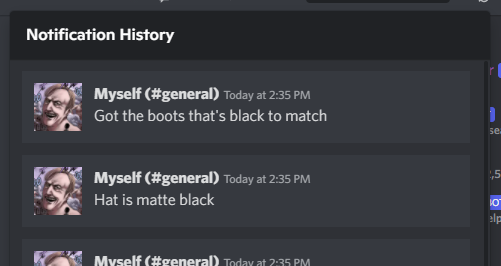
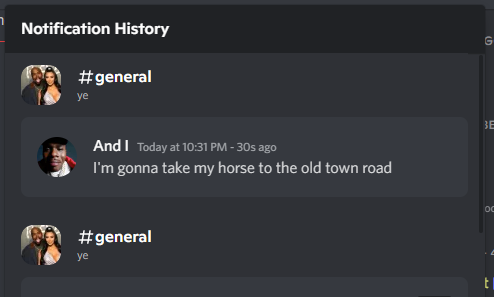
Use RPC instead of OSNotification

diff --git a/release/NotificationHistory.plugin.js b/release/NotificationHistory.plugin.js
@@ -1,6 +1,6 @@
 /**
  * @name NotificationHistory
- * @version 1.0.1
+ * @version 1.1.0
  * @author BrandonXLF
  * @description View a list of all the notifications you've received since Discord was opened.
  * @website https://github.com/BrandonXLF/BetterDiscordPlugins/tree/main/src/NotificationHistory
@@ -8,7 +8,7 @@
  * @authorLink https://github.com/BrandonXLF/
  */
 module.exports = (() => {
-	const config = {"info":{"version":"1.0.1","description":"View a list of all the notifications you've received since Discord was opened.","name":"NotificationHistory","github":"https://github.com/BrandonXLF/BetterDiscordPlugins/tree/main/src/NotificationHistory","github_raw":"https://raw.githubusercontent.com/BrandonXLF/BetterDiscordPlugins/main/release/NotificationHistory.plugin.js","authorLink":"https://github.com/BrandonXLF/","authors":[{"name":"BrandonXLF"}]},"main":"index.js"};
+	const config = {"info":{"version":"1.1.0","description":"View a list of all the notifications you've received since Discord was opened.","name":"NotificationHistory","github":"https://github.com/BrandonXLF/BetterDiscordPlugins/tree/main/src/NotificationHistory","github_raw":"https://raw.githubusercontent.com/BrandonXLF/BetterDiscordPlugins/main/release/NotificationHistory.plugin.js","authorLink":"https://github.com/BrandonXLF/","authors":[{"name":"BrandonXLF"}]},"main":"index.js"};
 
 	return !global.ZeresPluginLibrary ? class {
 		constructor() {
@@ -66,23 +66,26 @@ module.exports = (() => {
     DOMTools
   } = Library;
   const {
-    React
+    React,
+    MessageStore,
+    NavigationUtils
   } = DiscordModules;
-  const OSNotification = WebpackModules.getByProps('showNotification', 'hasPermission');
-  const moment = WebpackModules.getByProps('duration', 'now');
+  const RPC = WebpackModules.getByProps('handleNotificationCreate');
   const HeaderBar = WebpackModules.find(m => m.default?.displayName == 'HeaderBar');
   const {
     ScrollerThin
   } = WebpackModules.getByProps('ScrollerThin');
-  const MessageTimestamp = WebpackModules.findByDisplayName('MessageTimestamp');
   const IconElement = WebpackModules.getByProps('Icon').Icon;
   const Popout = WebpackModules.findByDisplayName('Popout');
+  const RecentsChannelHeader = WebpackModules.getByDisplayName('RecentsChannelHeader');
+  const JumpToMessageButton = WebpackModules.getByDisplayName('JumpToMessageButton');
+  const ChannelMessage = WebpackModules.find(m => m?.default?.type.toString().includes('subscribeToComponentDispatch')).default.type;
+  const ChannelStore = WebpackModules.getByProps('getChannel', 'getDMFromUserId');
   const sizeClasses = WebpackModules.getByProps('size16');
   const titleClasses = WebpackModules.getByProps('base', 'uppercase');
-  const messageContentClasses = WebpackModules.getByProps('markup', 'roleMention');
   const iconClasses = WebpackModules.getByProps('container', 'children', 'toolbar', 'iconWrapper');
   const inboxClasses = WebpackModules.getByProps('messagesPopout', 'messagesPopoutWrap', 'emptyPlaceholder');
-  const messageClasses = WebpackModules.getByProps('cozy', 'timestampTooltip', 'commandIcon');
+  const recentMentionsClasses = WebpackModules.getByProps('message', 'recentMentionsPopout');
 
   class NotificationStore extends EventTarget {
     #notifications = [];
@@ -112,27 +115,27 @@ module.exports = (() => {
     }
 
     render() {
-      let date = moment(this.props.notification.timestamp);
+      let msg = MessageStore.getMessage(this.props.notification.message.channel_id, this.props.notification.message.id);
+      let channel = ChannelStore.getChannel(this.props.notification.channelId);
+
+      let goToMessage = () => NavigationUtils.transitionToGuild(channel.getGuildId(), channel.id, msg.id);
+
+      if (!msg || !channel) return null;
       return /*#__PURE__*/React.createElement("div", {
-        className: `${messageContentClasses.markup} notification-history-record`,
-        onClick: this.onClick.bind(this)
-      }, /*#__PURE__*/React.createElement("div", {
-        className: "notification-history-icon"
-      }, /*#__PURE__*/React.createElement("img", {
-        src: this.props.notification.icon
-      })), /*#__PURE__*/React.createElement("div", {
-        className: messageClasses.cozy
-      }, /*#__PURE__*/React.createElement("div", null, /*#__PURE__*/React.createElement("span", {
-        style: {
-          fontWeight: 'bold'
-        }
-      }, this.props.notification.title), /*#__PURE__*/React.createElement(MessageTimestamp, {
-        timestamp: date
-      })), /*#__PURE__*/React.createElement("div", {
-        style: {
-          lineBreak: 'anywhere'
-        }
-      }, this.props.notification.body)));
+        className: recentMentionsClasses.container
+      }, /*#__PURE__*/React.createElement(RecentsChannelHeader, {
+        channel: channel,
+        gotoChannel: goToMessage
+      }), /*#__PURE__*/React.createElement("div", {
+        className: recentMentionsClasses.messageContainer
+      }, /*#__PURE__*/React.createElement(JumpToMessageButton, {
+        className: recentMentionsClasses.jumpButton,
+        onJump: goToMessage
+      }), /*#__PURE__*/React.createElement(ChannelMessage, {
+        message: msg,
+        channel: channel,
+        className: recentMentionsClasses.message
+      })));
     }
 
   }
@@ -170,7 +173,7 @@ module.exports = (() => {
         className: "notification-history-list"
       }, this.props.notificationStore.length ? this.props.notificationStore.getAll().map(notification => {
         return /*#__PURE__*/React.createElement(NotificationElement, {
-          key: notification.tag,
+          key: notification.message.id,
           notification: notification,
           closeModal: this.props.onClose
         });
@@ -258,11 +261,12 @@ module.exports = (() => {
     notificationStore = new NotificationStore();
 
     onStart() {
-      Patcher.after(OSNotification, 'showNotification', (_, __, notification) => {
+      Patcher.after(RPC, 'handleNotificationCreate', (_, [notification]) => {
         if (!notification) return;
         this.notificationStore.add(notification);
       });
       Patcher.before(HeaderBar, 'default', (_, [props]) => {
+        if (!props) return;
         let toolbarChildren = props.toolbar.props.children;
         let btnIndex = toolbarChildren.findIndex(x => x?.type?.displayName == 'RecentsButton');
         toolbarChildren.splice(btnIndex, 0, /*#__PURE__*/React.createElement(NotificationHistoryIconElement, {

diff --git a/src/NotificationHistory/index.jsx b/src/NotificationHistory/index.jsx
@@ -1,21 +1,20 @@
 module.exports = (Plugin, Library) => {
 	const { Patcher, DiscordModules, WebpackModules, DOMTools } = Library;
-	const { React } = DiscordModules;
-	const OSNotification = WebpackModules.getByProps('showNotification', 'hasPermission');
-	const moment = WebpackModules.getByProps('duration', 'now');
-
+	const { React, MessageStore, NavigationUtils } = DiscordModules;
+	const RPC = WebpackModules.getByProps('handleNotificationCreate');
 	const HeaderBar = WebpackModules.find(m => m.default?.displayName == 'HeaderBar');
 	const { ScrollerThin } = WebpackModules.getByProps('ScrollerThin');
-	const MessageTimestamp = WebpackModules.findByDisplayName('MessageTimestamp');
 	const IconElement = WebpackModules.getByProps('Icon').Icon;
 	const Popout = WebpackModules.findByDisplayName('Popout');
-
+	const RecentsChannelHeader = WebpackModules.getByDisplayName('RecentsChannelHeader');
+	const JumpToMessageButton = WebpackModules.getByDisplayName('JumpToMessageButton');
+	const ChannelMessage = WebpackModules.find(m => m?.default?.type.toString().includes('subscribeToComponentDispatch')).default.type;
+	const ChannelStore = WebpackModules.getByProps('getChannel', 'getDMFromUserId');
 	const sizeClasses = WebpackModules.getByProps('size16');
 	const titleClasses = WebpackModules.getByProps('base', 'uppercase');
-	const messageContentClasses = WebpackModules.getByProps('markup', 'roleMention');
 	const iconClasses = WebpackModules.getByProps('container', 'children', 'toolbar', 'iconWrapper');
 	const inboxClasses = WebpackModules.getByProps('messagesPopout', 'messagesPopoutWrap', 'emptyPlaceholder');
-	const messageClasses = WebpackModules.getByProps('cozy', 'timestampTooltip', 'commandIcon');
+	const recentMentionsClasses = WebpackModules.getByProps('message', 'recentMentionsPopout');
 	
 	class NotificationStore extends EventTarget {
 		#notifications = [];
@@ -44,18 +43,31 @@ module.exports = (Plugin, Library) => {
 		}
 		
 		render() {
-			let date = moment(this.props.notification.timestamp);
+			let msg = MessageStore.getMessage(
+				this.props.notification.message.channel_id,
+				this.props.notification.message.id
+			);
 			
-			return <div className={`${messageContentClasses.markup} notification-history-record`} onClick={this.onClick.bind(this)}>
-				<div className="notification-history-icon">
-					<img src={this.props.notification.icon} />
-				</div>
-				<div className={messageClasses.cozy}>
-					<div>
-						<span style={{fontWeight: 'bold'}}>{this.props.notification.title}</span>
-						<MessageTimestamp timestamp={date} />
-					</div>
-					<div style={{lineBreak: 'anywhere'}}>{this.props.notification.body}</div>
+			let channel = ChannelStore.getChannel(this.props.notification.channelId);
+			let goToMessage = () => NavigationUtils.transitionToGuild(channel.getGuildId(), channel.id, msg.id);
+			
+			if (!msg || !channel) return null;
+			
+			return <div className={recentMentionsClasses.container}>
+				<RecentsChannelHeader
+					channel={channel}
+					gotoChannel={goToMessage}
+				/>
+				<div className={recentMentionsClasses.messageContainer}>
+					<JumpToMessageButton
+						className={recentMentionsClasses.jumpButton}
+						onJump={goToMessage}
+					/>
+					<ChannelMessage
+						message={msg}
+						channel={channel}
+						className={recentMentionsClasses.message}
+					/>
 				</div>
 			</div>;
 		}
@@ -84,7 +96,7 @@ module.exports = (Plugin, Library) => {
 					<ScrollerThin className="notification-history-list">
 						{this.props.notificationStore.length
 							? this.props.notificationStore.getAll().map(notification => {
-								return <NotificationElement key={notification.tag} notification={notification} closeModal={this.props.onClose} />;
+								return <NotificationElement key={notification.message.id} notification={notification} closeModal={this.props.onClose} />;
 							})
 							: <div className={inboxClasses.emptyPlaceholder}>
 								<div className={inboxClasses.body}>Any notifications you receive will be recorded here.</div>
@@ -143,13 +155,15 @@ module.exports = (Plugin, Library) => {
 		notificationStore = new NotificationStore();
 
 		onStart() {
-			Patcher.after(OSNotification, 'showNotification', (_, __, notification) => {
+			Patcher.after(RPC, 'handleNotificationCreate', (_, [notification]) => {
 				if (!notification) return;
 				
 				this.notificationStore.add(notification);
 			});
 
 			Patcher.before(HeaderBar, 'default', (_, [props]) => {
+				if (!props) return;
+				
 				let toolbarChildren = props.toolbar.props.children;
 				let btnIndex = toolbarChildren.findIndex(x => x?.type?.displayName == 'RecentsButton');
 				
